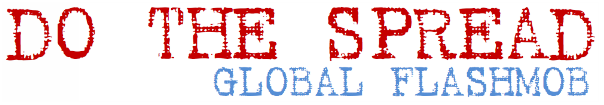
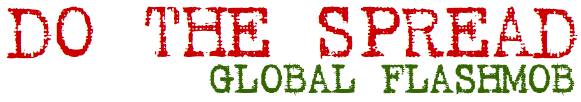
changed color scheme. moved/restyled youtube upload

diff --git a/public/css/style.css b/public/css/style.css
@@ -30,7 +30,7 @@
 	font-size: 1.5em;
     width: 300px;
     text-align: right;
-    color: #0040A0
+    color: #336600
 }
 
 #countdownclock {
@@ -61,7 +61,7 @@
 
 .socialicon {
     font-size: 1em;
-    color: #0040A0;
+    color: #336600;
 	text-align: center;
 	align: center;
 	border: 0px;
@@ -87,7 +87,7 @@
 
 .daysLeft {
     font-size: 2em;
-    color: #0040A0;
+    color: #336600;
     text-align: center;
     border: 0px 0px 0px 0px;
 }
@@ -135,5 +135,5 @@ body {
 }
 
 .msgError {
-    color : red
+    color : #cc0000
 }
